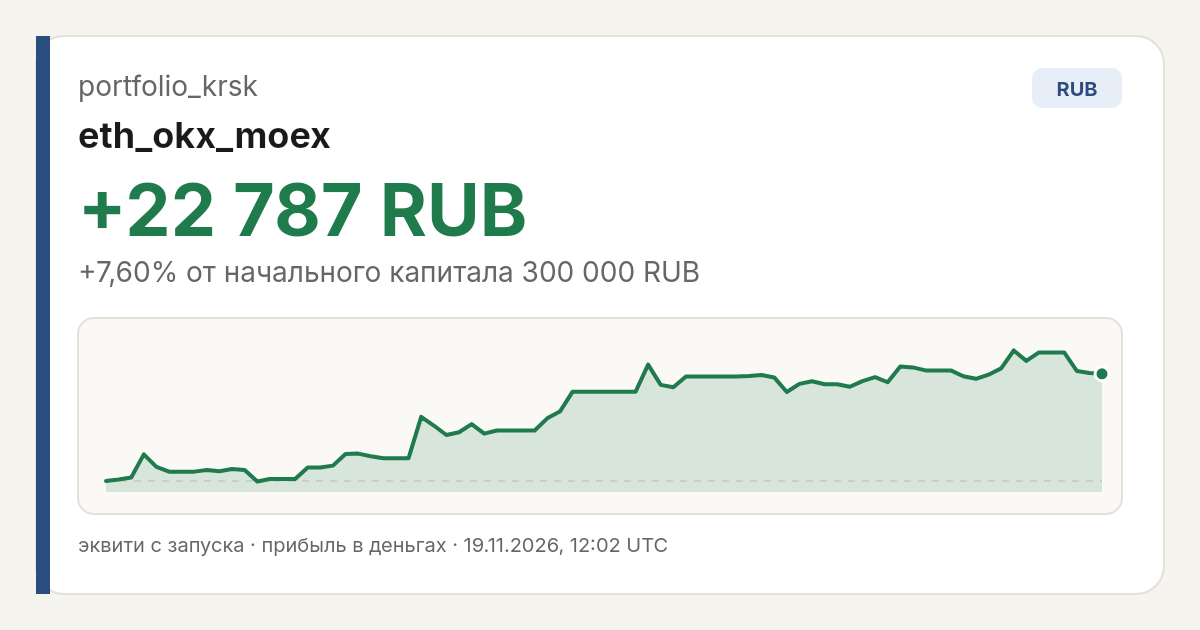
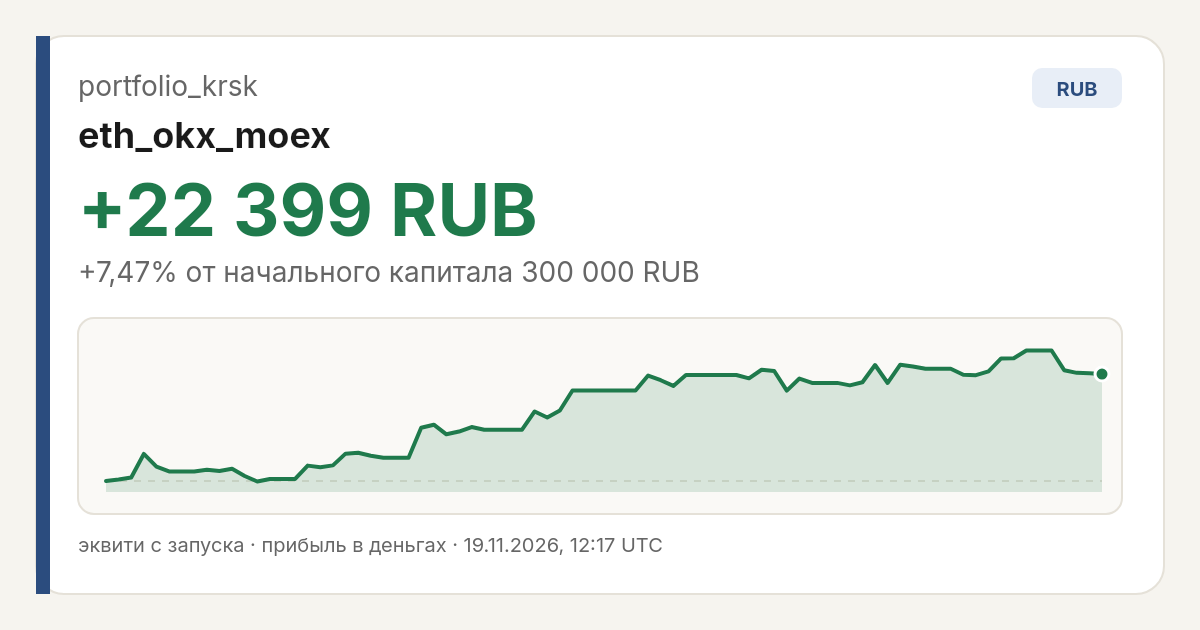
sync equity data 2026-11-19T12:17:58Z

diff --git a/share.html b/share.html
@@ -4,23 +4,23 @@
     <meta charset="UTF-8" />
     <meta name="viewport" content="width=device-width, initial-scale=1.0" />
     <title>portfolio_krsk - eth_okx_moex</title>
-    <meta name="description" content="eth_okx_moex: +22 787 RUB (+7,60%) с запуска. Лидер обложки выбран по доходности в процентах от начального капитала; суммы в разных валютах не сравниваются." />
+    <meta name="description" content="eth_okx_moex: +22 399 RUB (+7,47%) с запуска. Лидер обложки выбран по доходности в процентах от начального капитала; суммы в разных валютах не сравниваются." />
     <meta property="og:title" content="portfolio_krsk - eth_okx_moex" />
-    <meta property="og:description" content="eth_okx_moex: +22 787 RUB (+7,60%) с запуска. Лидер обложки выбран по доходности в процентах от начального капитала; суммы в разных валютах не сравниваются." />
+    <meta property="og:description" content="eth_okx_moex: +22 399 RUB (+7,47%) с запуска. Лидер обложки выбран по доходности в процентах от начального капитала; суммы в разных валютах не сравниваются." />
     <meta property="og:url" content="https://portfolio-krsk.vercel.app/" />
     <meta property="og:site_name" content="portfolio_krsk" />
     <meta property="og:locale" content="ru_RU" />
     <meta property="og:type" content="website" />
-    <meta property="og:image" content="https://varshavskiy1-beep.github.io/portfolio-krsk/og-cover.jpg?v=202611191202" />
-    <meta property="og:image:secure_url" content="https://varshavskiy1-beep.github.io/portfolio-krsk/og-cover.jpg?v=202611191202" />
+    <meta property="og:image" content="https://varshavskiy1-beep.github.io/portfolio-krsk/og-cover.jpg?v=202611191217" />
+    <meta property="og:image:secure_url" content="https://varshavskiy1-beep.github.io/portfolio-krsk/og-cover.jpg?v=202611191217" />
     <meta property="og:image:type" content="image/jpeg" />
     <meta property="og:image:width" content="1200" />
     <meta property="og:image:height" content="630" />
-    <link rel="image_src" href="https://varshavskiy1-beep.github.io/portfolio-krsk/og-cover.jpg?v=202611191202" />
+    <link rel="image_src" href="https://varshavskiy1-beep.github.io/portfolio-krsk/og-cover.jpg?v=202611191217" />
     <meta name="twitter:card" content="summary_large_image" />
     <meta name="twitter:title" content="portfolio_krsk - eth_okx_moex" />
-    <meta name="twitter:description" content="eth_okx_moex: +22 787 RUB (+7,60%) с запуска. Лидер обложки выбран по доходности в процентах от начального капитала; суммы в разных валютах не сравниваются." />
-    <meta name="twitter:image" content="https://varshavskiy1-beep.github.io/portfolio-krsk/og-cover.jpg?v=202611191202" />
+    <meta name="twitter:description" content="eth_okx_moex: +22 399 RUB (+7,47%) с запуска. Лидер обложки выбран по доходности в процентах от начального капитала; суммы в разных валютах не сравниваются." />
+    <meta name="twitter:image" content="https://varshavskiy1-beep.github.io/portfolio-krsk/og-cover.jpg?v=202611191217" />
     <meta http-equiv="refresh" content="0; url=/" />
     <script>location.replace("/")</script>
     <style>
@@ -49,9 +49,9 @@
   </head>
   <body>
     <main>
-      <img src="https://varshavskiy1-beep.github.io/portfolio-krsk/og-cover.jpg?v=202611191202" alt="portfolio_krsk - eth_okx_moex" width="1200" height="630" />
+      <img src="https://varshavskiy1-beep.github.io/portfolio-krsk/og-cover.jpg?v=202611191217" alt="portfolio_krsk - eth_okx_moex" width="1200" height="630" />
       <noscript>
-        <p>eth_okx_moex: +22 787 RUB (+7,60%) с запуска. Лидер обложки выбран по доходности в процентах от начального капитала; суммы в разных валютах не сравниваются.</p>
+        <p>eth_okx_moex: +22 399 RUB (+7,47%) с запуска. Лидер обложки выбран по доходности в процентах от начального капитала; суммы в разных валютах не сравниваются.</p>
         <p><a href="/">Открыть кабинет portfolio_krsk</a></p>
       </noscript>
     </main>
